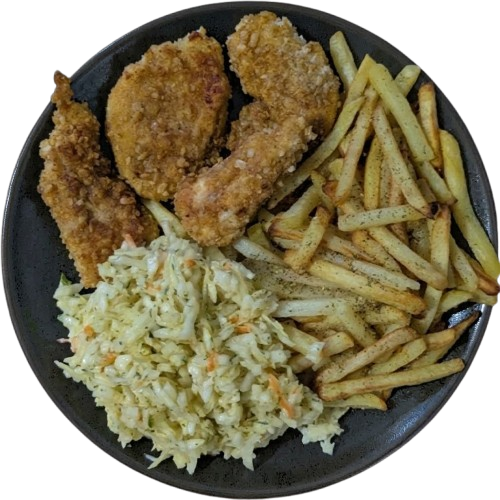
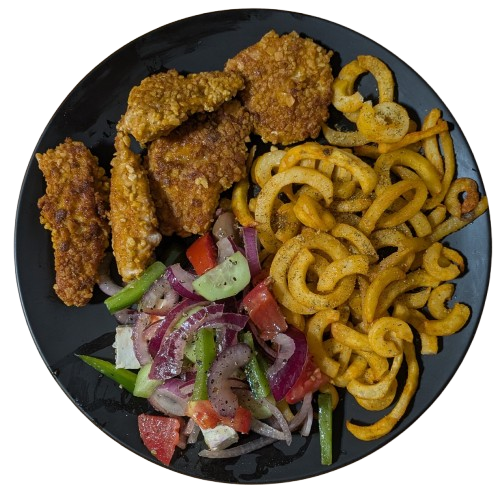
update-img

diff --git a/src/data/dinner/kurczak-chrupiacy.ts b/src/data/dinner/kurczak-chrupiacy.ts
@@ -11,10 +11,10 @@ const portions = 2;
 const kurczakChrupiacy: Recipe = {
   name: "Kurczak Chrupiący",
   type: "dinner",
-  images: ["kurczak-chrupiacy"],
+  images: ["kurczak-chrupiacy", "kurczak-chrupiacy-2", "kurczak-chrupiacy-3"],
   time: 30,
   portions: portions,
-  taste: 4,
+  taste: 3,
   difficulty: 2,
   ingredients: [
     {
@@ -36,7 +36,10 @@ const kurczakChrupiacy: Recipe = {
     },
   ],
   extrasMain: {
-    options: [dinnerSides("oven-fries", portions)],
+    options: [
+      dinnerSides("oven-twisted-fries", portions),
+      dinnerSides("oven-fries", portions),
+    ],
     selected: 0,
   },
   extrasVeg: {
